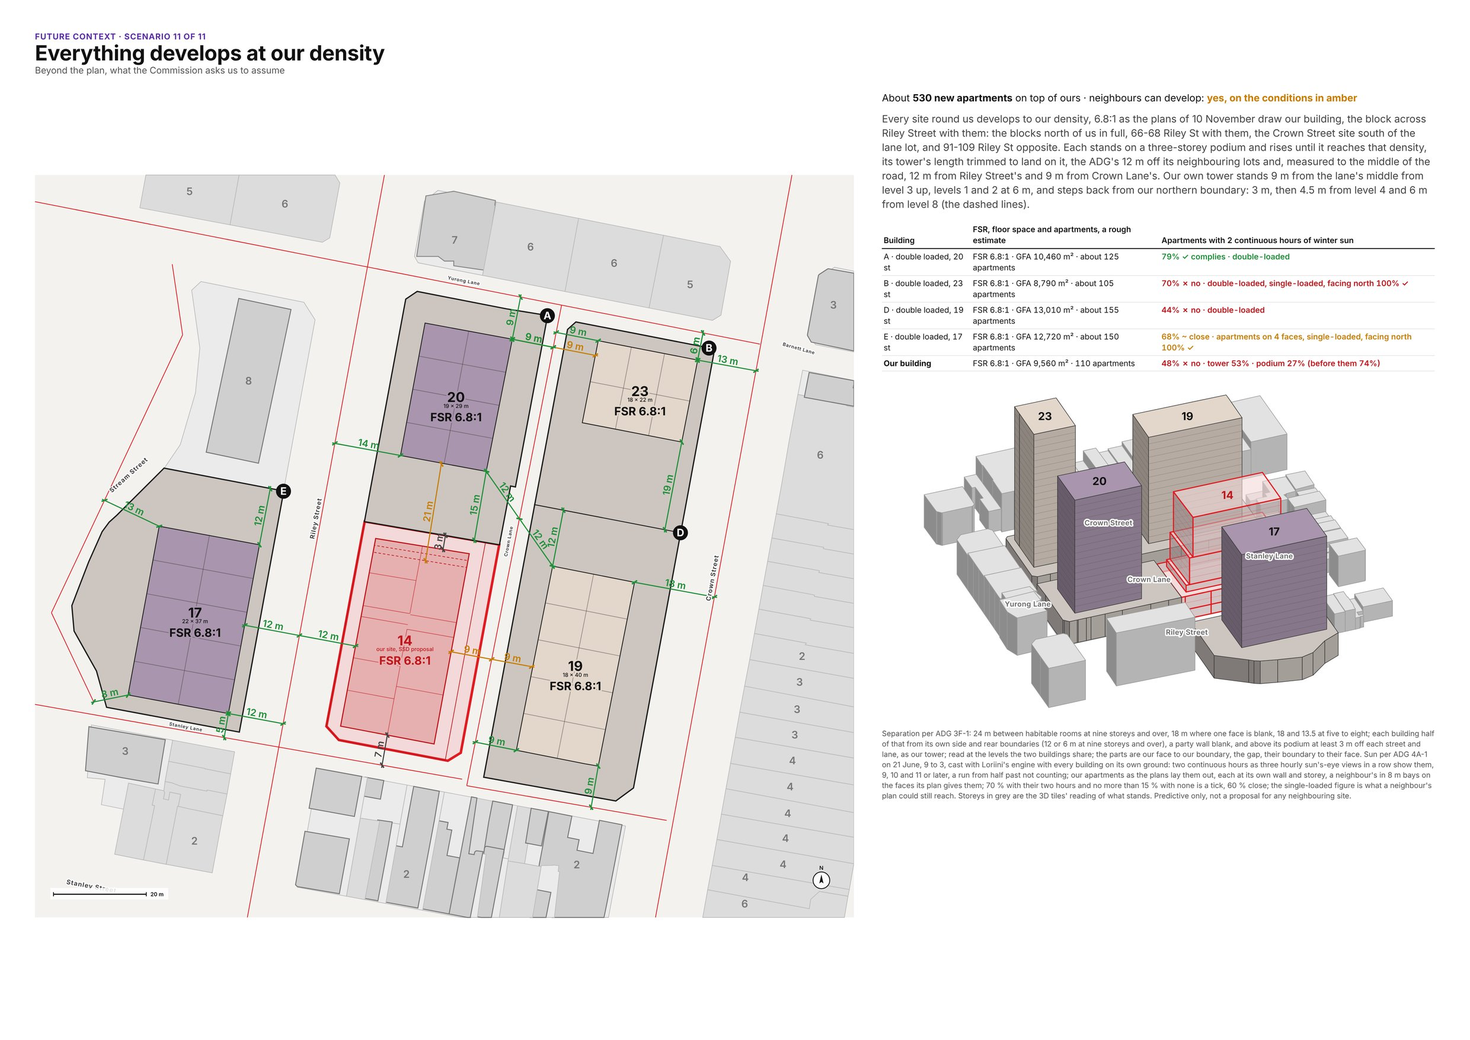
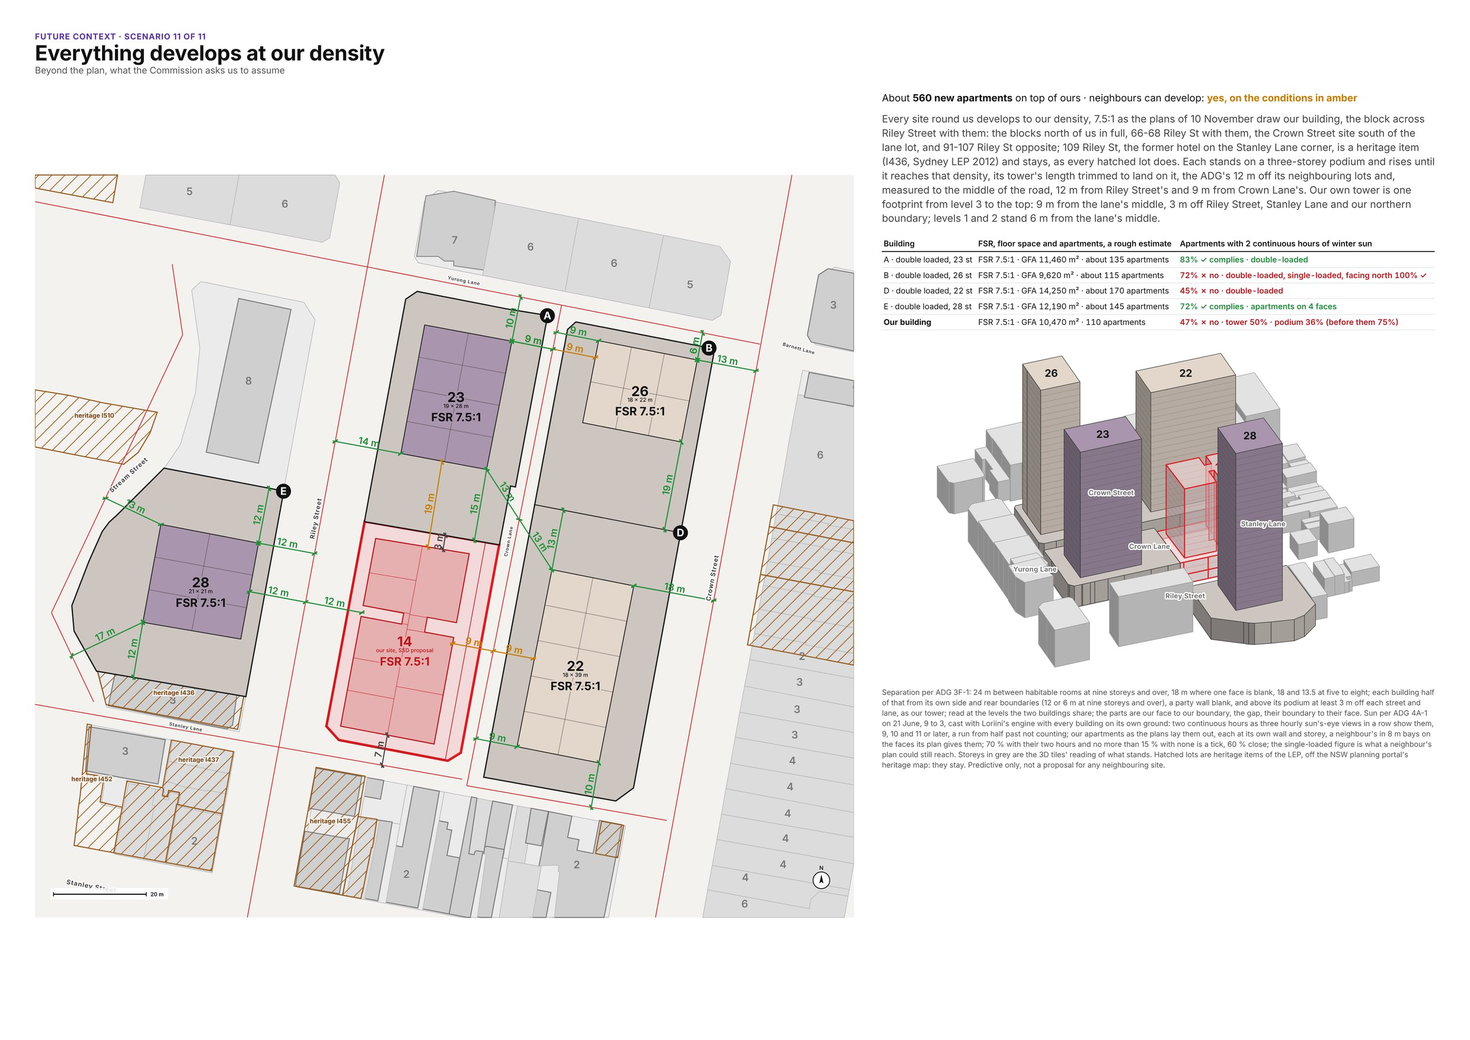
Future context: the tower one footprint with its slots, heritage items off the planning portal, and our FSR calculated off the plans
Our tower is one footprint from level 3 to the top (no steps at the north), with a slot cut into each long face where the corridor ends: a stretch of a face without an apartment that names a depth (`[null, width, depth]`) is cut that deep into the tower. The apartments are laid along the tower's outline before the cut, and the sun study reads a side's apartments off its outer wall alone, measured square to the side's longest stretch, so a wall inside a slot carries none.

The LEP's heritage items are fetched off the planning portal's heritage map with their numbers (`--heritage` over an earlier fetch; the shared fetch now asks for `H_ID`), hatched on the option sheets, and checked against every development site: a scenario that builds on one is warned on its sheet and on the console. 109 Riley Street is item I436, the former hotel 'Watters Gallery', so the site across Riley Street is 91-107 Riley Street without it.

`site.fsr` states our density where it is calculated off the plans, with the sum beside it: 7.5:1 for Riley Street (tower 11 floors of about 720 m², levels 1 and 2 about 860 m² each, the ground floor taken at 60 % of the lot). The neighbours' parity reads it, so every site in the last scenario stands at 7.5:1.

Claude-Session: https://claude.ai/code/session_01VNRPaoqvXaWWnp37ybZcdp

diff --git a/scripts/future_context.ts b/scripts/future_context.ts
@@ -11,6 +11,7 @@
 //   npm run future -- out/capacity/riley --scenarios examples/capacity_study/70-76-riley-street-darlinghurst.future.json
 //   npm run future -- out/capacity/riley --scenarios … --redraw      (draw again from what was fetched)
 //   npm run future -- out/capacity/riley --scenarios … --redraw --only last   (one scenario's sheets alone: its number, or `last`)
+//   npm run future -- out/capacity/riley --scenarios … --redraw --heritage    (read the LEP's heritage items over an earlier fetch)
 //   npm run future -- out/capacity/riley --scenarios … --redraw --sun-context   (read the 300 m the sun reaches)
 //
 // Over the context plan's reading (analysis.json: every property's polygon,
@@ -32,7 +33,7 @@ import { promisify } from 'node:util';
 import { PDFDocument } from 'pdf-lib';
 import { fetchAerial } from '../src/fetch/imagery.js';
 import { fetchBuildings } from '../src/fetch/buildings.js';
-import { fetchFloorSpaceRatio, fetchHeightOfBuilding } from '../src/fetch/nsw.js';
+import { fetchFloorSpaceRatio, fetchHeightOfBuilding, fetchHeritage } from '../src/fetch/nsw.js';
 import { meshSurfaceOver } from '../src/fetch/meshHeights.js';
 import { cellsIn, footprintHeight, simplifyRing, toLonLat, toXY, traceOutlines, type XY } from '../src/lib/meshHeights.js';
 import { mercatorToLonLat, type Extent } from '../src/lib/geo.js';
@@ -63,6 +64,29 @@ const TIER_M = 3;
 
 if (!redraw) await fetchStudy();
 if (!redraw || args.includes('--sun-context')) await fetchSunContext();
+if (!redraw || args.includes('--sun-context') || args.includes('--heritage')) await fetchHeritageItems();
+
+/** The heritage items of the LEP round the site, off the planning portal's heritage map: each with its number, name
+ *  and significance and its mapped outline, so a sheet shows what cannot be redeveloped and a scenario that builds on
+ *  one is caught. `--heritage` reads them over an earlier fetch. */
+async function fetchHeritageItems(): Promise<void> {
+  const a = JSON.parse(await readFile(join(out, 'analysis.json'), 'utf8'));
+  const f = JSON.parse(await readFile(join(out, 'future.json'), 'utf8'));
+  const k: number = a.k;
+  const site: any = Object.values(a.props).find((p: any) => p.isSite);
+  const [cx, cy] = site.centroid;
+  const win: Extent = { xmin: cx - SUN_REACH_M * k, xmax: cx + SUN_REACH_M * k, ymin: cy - SUN_REACH_M * k, ymax: cy + SUN_REACH_M * k };
+  try {
+    const fc: any = await fetchHeritage(win);
+    const ringsOf = (g: any): number[][][] => (!g ? [] : g.type === 'Polygon' ? g.coordinates : g.type === 'MultiPolygon' ? g.coordinates.flat() : []);
+    f.heritage = (fc.features ?? []).filter((h: any) => String(h.properties?.LAY_CLASS ?? '').startsWith('Item'))
+      .map((h: any) => ({ id: h.properties?.H_ID ?? null, name: h.properties?.H_NAME ?? null, significance: h.properties?.SIG ?? null, rings: ringsOf(h.geometry) }))
+      .filter((h: any) => h.rings.length);
+    f.heritageFetchedAt = new Date().toISOString();
+    await writeFile(join(out, 'future.json'), JSON.stringify(f));
+    log(`  heritage: ${f.heritage.length} items of the LEP within ${SUN_REACH_M} m`);
+  } catch (e: any) { log(`  WARN the heritage items: ${e?.message ?? e}`); }
+}
 
 
 async function fetchSunContext(): Promise<void> {

diff --git a/src/fetch/nsw.ts b/src/fetch/nsw.ts
@@ -143,7 +143,7 @@ export const fetchFloorSpaceRatio = (extent: Extent) =>
   queryByExtent(`${EPI}/1`, extent, 'FSR');
 
 export const fetchHeritage = (extent: Extent) =>
-  queryByExtent(`${EPI}/0`, extent, 'LAY_CLASS,H_NAME,SIG');
+  queryByExtent(`${EPI}/0`, extent, 'LAY_CLASS,H_ID,H_NAME,SIG');
 
 /**
  * The planning controls that apply AT the site, for the development summary

diff --git a/scripts/capacity_study/future_context.py b/scripts/capacity_study/future_context.py
@@ -325,6 +325,30 @@ def existing_height(r):
 
 
 BUILT = set()
+HERITAGE = None
+HERITAGE_HITS = {}                                                  # scenario title -> [(parcel key, address, item)]
+
+
+def heritage_items():
+    """The LEP's heritage items round the site: [(polygon, number, name)], off the planning portal's heritage map as
+    the runner fetched it (future.json), else as the capacity study kept it (analysis.json, names alone)."""
+    global HERITAGE
+    if HERITAGE is None:
+        HERITAGE = []
+        for h, ll in [(h, True) for h in fu.get('heritage') or []] or [(h, False) for h in a.get('heritageItems') or []]:
+            try:
+                g = poly_of(h['rings'], ll=ll).buffer(0)
+            except Exception:
+                continue
+            if not g.is_empty:
+                HERITAGE.append((g, h.get('id'), h.get('name')))
+    return HERITAGE
+
+
+def heritage_on(poly):
+    """The heritage items a lot stands on: those whose mapped outline covers a third of it or more."""
+    return [(hid, name) for g, hid, name in heritage_items() if g.intersection(poly).area >= 0.34 * poly.area]
+
 
 
 def site_yield():
@@ -333,6 +357,9 @@ def site_yield():
     scenario moves it."""
     gba = tiers_gba(SITE_TIERS)
     units = SITE_UNITS if abs(gba - BASE_GBA) < 1 else round(SITE_UNITS * gba / BASE_GBA / 5) * 5
+    if S.get('fsr'):                                                  # our density as the file states it, calculated off the plans
+        fsr = S['fsr'] * gba / BASE_GBA                               # and scaled where a scenario moves our tower
+        return fsr, fsr * SITE_AREA, units
     return EFFICIENCY * gba / SITE_AREA, EFFICIENCY * gba, units
 
 
@@ -371,7 +398,7 @@ def trim_to(poly, want):
 
 def our_fsr():
     """Our density: the file's `site.fsr` where it states one, else off our massing as the scenario draws it."""
-    return S.get('fsr') or (site_yield()[0] if TOWER else SITE_GFA / SITE_AREA)
+    return site_yield()[0] if TOWER else (S.get('fsr') or SITE_GFA / SITE_AREA)
 
 
 AXES = None
@@ -552,37 +579,27 @@ def unit_spans(lst, face_len):
 
 def our_units_scheme(k):
     """Our tower's typical floor as the plans lay it out: the apartments along its Riley Street and Crown Lane faces,
-    a corridor between them."""
+    a corridor between them; the lines kept within the tower as its slots leave it."""
     plan_ = ((TOWER or {}).get('units') or {}).get('tower')
-    if not plan_:
+    east, west = (face_run(SITE_BOX, 'east'), face_run(SITE_BOX, 'west')) if plan_ and SITE_BOX is not None else (None, None)
+    if not east or not west:
         return []
-    cs = list(SITE_TOWER.exterior.coords)[:-1]
-    if not SITE_TOWER.exterior.is_ccw:
-        cs = cs[::-1]
-    faces = {}
-    for p, q in zip(cs, cs[1:] + cs[:1]):
-        L = math.dist(p, q)
-        if L < 1:
-            continue
-        nx = (q[1] - p[1]) / L
-        side = 'east' if nx > 0.7 else 'west' if nx < -0.7 else None
-        if side and (side not in faces or L > faces[side][0]):
-            faces[side] = (L,) + ((p, q) if p[1] > q[1] else (q, p))
-    if len(faces) < 2:
-        return []
-    (_, en, es), (_, wn, ws) = faces['east'], faces['west']
+    (en, es), (wn, ws) = east, west
     mn, ms = ((en[0] + wn[0]) / 2, (en[1] + wn[1]) / 2), ((es[0] + ws[0]) / 2, (es[1] + ws[1]) / 2)
     lerp = lambda a, b, t: (a[0] + (b[0] - a[0]) * t, a[1] + (b[1] - a[1]) * t)
-    line = lambda a, b: f'<line x1="{f(a[0])}" y1="{f(-a[1])}" x2="{f(b[0])}" y2="{f(-b[1])}" stroke="#c0161c" stroke-opacity=".6" stroke-width="{0.3 * k:.2f}"/>'
-    o = [line(mn, ms)]                                                # the corridor, wall to wall
+    inner = SITE_TOWER.buffer(-0.05)
+
+    def line(a, b):
+        g = LineString([a, b]).intersection(inner)
+        return [f'<line x1="{f(x.coords[0][0])}" y1="{f(-x.coords[0][1])}" x2="{f(x.coords[-1][0])}" y2="{f(-x.coords[-1][1])}" stroke="#c0161c" stroke-opacity=".6" stroke-width="{0.3 * k:.2f}"/>'
+                for x in (g.geoms if hasattr(g, 'geoms') else [g]) if x.geom_type == 'LineString' and x.length > 0.4]
+
+    o = line(mn, ms)                                                  # the corridor, wall to wall
     for side, fn, fs_ in (('east', en, es), ('west', wn, ws)):
         L = math.dist(fn, fs_) or 1.0
         for i, (name, a, b, corner) in enumerate(unit_spans(plan_.get(side, []), L)):
             if i:
-                o.append(line(lerp(fn, fs_, a / L), lerp(mn, ms, a / L)))
-            if name is None:                                          # the corridor's window: open to the face
-                c0, c1 = lerp(mn, ms, a / L), lerp(mn, ms, b / L)
-                o.append(f'<line x1="{f(c0[0])}" y1="{f(-c0[1])}" x2="{f(c1[0])}" y2="{f(-c1[1])}" stroke="#e6b0b0" stroke-width="{0.5 * k:.2f}"/>')
+                o += line(lerp(fn, fs_, a / L), lerp(mn, ms, a / L))
     return o
 
 
@@ -685,6 +702,11 @@ def resolve(scn):
         parcel = parcel_of(p['addresses'])
         for x in p['addresses']:
             used.add(str(prop(x)['propid']))
+            for hid, hname in heritage_on(prop(x)['poly']):           # a heritage item cannot be redeveloped: say so, loudly
+                hit = (p['key'], short(prop(x)['base']), f'{hid or "item"}, {hname}' if hname else str(hid))
+                if hit not in HERITAGE_HITS.setdefault(scn['title'], []):
+                    HERITAGE_HITS[scn['title']].append(hit)
+                    print(f'WARN {scn["title"]}: site {p["key"]} takes {hit[1]}, heritage item {hit[2]}', file=sys.stderr)
         area = parcel.area
         rows = []
         for b in p['buildings']:
@@ -796,8 +818,48 @@ def inset(parcel, setbacks):
     return largest(g)
 
 
-SITE_TOWER, SITE_PODIUM, TOWER_OWN, SITE_TIERS = None, 0, False, []
+SITE_TOWER, SITE_BOX, SITE_PODIUM, TOWER_OWN, SITE_TIERS = None, None, 0, False, []
 BASE_TOWER = inset(SITE_POLY, TOWER['setbacks']) if TOWER else SITE_POLY.buffer(-1.0, join_style=2)
+
+
+def face_run(poly, side):
+    """A footprint's face on one side as (start, end): its longest edge facing that way, from its north end (east and
+    west) or its east end (south and north)."""
+    want = {'east': (1, 0), 'west': (-1, 0), 'south': (0, -1), 'north': (0, 1)}[side]
+    cs = list(poly.exterior.coords)
+    if not poly.exterior.is_ccw:
+        cs = cs[::-1]
+    best = None
+    for p, q in zip(cs[:-1], cs[1:]):
+        L = math.dist(p, q)
+        if L >= 1 and ((q[1] - p[1]) * want[0] - (q[0] - p[0]) * want[1]) / L > 0.7 and (best is None or L > best[0]):
+            best = (L, p, q)
+    if not best:
+        return None
+    k = 1 if want[0] else 0
+    return (best[1], best[2]) if best[1][k] > best[2][k] else (best[2], best[1])
+
+
+def cut_slots(poly, plan_):
+    """A footprint with the slots its plan leaves open: a stretch of a face without an apartment that names a depth
+    (`[null, width, depth]`, the corridor's end open to the air) is cut that deep into the building."""
+    out = poly
+    for side, lst in (plan_ or {}).items():
+        run = face_run(poly, side) if side in ('east', 'west', 'south', 'north') else None
+        if not run:
+            continue
+        (sx, sy), (ex, ey) = run
+        L = math.dist(run[0], run[1])
+        ux, uy = (ex - sx) / L, (ey - sy) / L
+        nx, ny = -uy, ux
+        c = poly.representative_point()
+        if (c.x - sx) * nx + (c.y - sy) * ny < 0:
+            nx, ny = -nx, -ny                                         # inward
+        for name, a, b, depth in unit_spans(lst, L):
+            if name is None and isinstance(depth, (int, float)) and depth > 0:
+                at = lambda t, d: (sx + ux * t + nx * d, sy + uy * t + ny * d)
+                out = out.difference(Polygon([at(a, -0.5), at(b, -0.5), at(b, depth), at(a, depth)]))
+    return largest(out)
 
 
 def tiers_for(tw):
@@ -825,7 +887,8 @@ def tiers_for(tw):
             if st['from'] <= a:
                 for name, v in st['setbacks'].items():
                     sb[name] = max(sb.get(name, 0), v)                # a step only ever pushes further back
-        tiers.append(dict(poly=inset(SITE_POLY, sb), s0=a, s1=cuts[i + 1] - 1 if i + 1 < len(cuts) else N, homes='tower', floor0=a - (P + 1)))
+        tiers.append(dict(poly=cut_slots(inset(SITE_POLY, sb), (tw.get('units') or {}).get('tower')), s0=a, s1=cuts[i + 1] - 1 if i + 1 < len(cuts) else N,
+                          homes='tower', floor0=a - (P + 1)))
     return tiers
 
 
@@ -844,7 +907,7 @@ def ours_for(band):
 
 def set_tower(scn=None):
     """Our tower for a scenario: the study's site.tower, with whatever the scenario's own `site.tower` replaces."""
-    global TOWER, SITE_TOWER, SITE_PODIUM, TOWER_OWN, SITE_TIERS
+    global TOWER, SITE_TOWER, SITE_BOX, SITE_PODIUM, TOWER_OWN, SITE_TIERS
     base = S.get('tower') or {}
     own = ((scn or {}).get('site') or {}).get('tower') or {}
     TOWER = {**base, **own} if base or own else None
@@ -860,6 +923,10 @@ def set_tower(scn=None):
     SITE_TOWER = inset(SITE_POLY, TOWER['setbacks']) if TOWER else SITE_POLY.buffer(-1.0, join_style=2)
     SITE_PODIUM = TOWER.get('podium', 0) if TOWER else 0
     SITE_TIERS = tiers_for(TOWER)
+    SITE_BOX = SITE_TOWER                                             # the tower's outline before its slots are cut: what its apartments are laid along
+    towers = [t for t in SITE_TIERS if t['homes'] == 'tower']
+    if towers:
+        SITE_TOWER = towers[0]['poly']                                # the tower as it stands at its lowest level, slots and all
 
 
 set_tower()
@@ -1581,7 +1648,7 @@ mesh_props = [r for b in BLOCKS for r in b if measured(r)]
 
 def flags_for():
     flags = []
-    flags.append(f'<b>Our site.</b> {S["storeys"]} storeys as the author states it, not read from the model; {SITE_UNITS} apartments; its density is read off the massing as this sheet draws it, {EFFICIENCY:.0%} of the envelope, {our_fsr():.1f}:1 over {SITE_AREA:,.0f} m². The model\'s own GFA and unit count should replace them.'
+    flags.append(f'<b>Our site.</b> {S["storeys"]} storeys as the author states it, not read from the model; {SITE_UNITS} apartments; its density is ' + (f'the file\'s, calculated off the plans, {our_fsr():.1f}:1' if S.get('fsr') else f'read off the massing as this sheet draws it, {EFFICIENCY:.0%} of the envelope, {our_fsr():.1f}:1') + f' over {SITE_AREA:,.0f} m². The model\'s own GFA schedule should replace it.'
                  + (f' The tower is drawn on a {SITE_PODIUM}-storey podium, {SITE_TOWER.area:,.0f} m² a floor at its lowest level, its faces ' + ', '.join(f'{site_setback(n):.0f} m off {n.title()}' for n in TOWER['setbacks']) + ': ' + ('setbacks the scenario sets.' if TOWER_OWN else 'setbacks read off the model\'s plan, to be confirmed in it.') if TOWER else '')
                  + (f' The envelope drawn holds {site_yield()[1]:,.0f} m² GFA at {EFFICIENCY:.0%}; the plans lay out {SITE_UNITS} apartments.' if TOWER else ''))
     if MESH.get('meshes'):
@@ -1801,6 +1868,17 @@ def mini_plan(parcels, blds, existing, RET, sep, k=1.0, big=False, bset=None):
         if g.area >= 100:
             c = g.representative_point()
             o.append(f'<text x="{f(c.x)}" y="{-c.y + 1.7 * k:.2f}" font-size="{5 * k:.2f}" font-weight="600" text-anchor="middle" fill="{ink}">{n}</text>')
+    if big:                                                           # the LEP's heritage items: hatched, they stay
+        o.append('<defs><pattern id="hh" patternUnits="userSpaceOnUse" width="2" height="2" patternTransform="rotate(45)"><line x1="0" y1="0" x2="0" y2="2" stroke="#9a5b1e" stroke-width="0.32"/></pattern></defs>')
+        dev = unary_union([q['poly'] for q in parcels] + [SITE_POLY])
+        for g, hid, hname in heritage_items():
+            if not g.intersects(box):
+                continue
+            g = g.intersection(box)
+            o.append(f'<path d="{path(g)}" fill="url(#hh)" stroke="#9a5b1e" stroke-width="{0.5 * k:.2f}"/>')
+            if g.distance(dev) < 14 and g.area >= 80:                 # named where it stands beside a site
+                c = g.representative_point()
+                o.append(f'<text x="{f(c.x)}" y="{-c.y - 2.2 * k:.2f}" font-size="{3.0 * k:.2f}" font-weight="700" text-anchor="middle" fill="#7a4310" paint-order="stroke" stroke="#f4f2ef" stroke-width="{1.2 * k:.2f}">heritage{" " + H.escape(str(hid)) if hid else ""}</text>')
     o.append(f'<path d="{path(SITE_POLY)}" fill="{C["site"]}" stroke="#e11b22" stroke-width="{1.2 * k:.2f}"/>')
     if TOWER:
         o.append(f'<path d="{path(SITE_TOWER)}" fill="#e6b0b0" stroke="#c0161c" stroke-width="{0.5 * k:.2f}"/>')
@@ -1892,7 +1970,8 @@ OPTION_NOTE = ("Separation per ADG 3F-1: 24 m between habitable rooms at nine st
                "on 21 June, 9 to 3, cast with Loriini's engine with every building on its own ground: two continuous hours as three hourly sun's-eye views in a row show them, 9, 10 and 11 or later, a run from half past not counting; "
                "our apartments as the plans lay them out, each at its own wall and storey, a neighbour's in 8 m bays on the faces its plan gives them; 70 % with "
                "their two hours and no more than 15 % with none is a tick, 60 % close; the single-loaded figure is what a neighbour's plan could still reach. "
-               "Storeys in grey are the 3D tiles' reading of what stands. Predictive only, not a proposal for any neighbouring site.")
+               "Storeys in grey are the 3D tiles' reading of what stands. Hatched lots are heritage items of the LEP, off the NSW planning portal's heritage map: they stay. "
+               "Predictive only, not a proposal for any neighbouring site.")
 
 
 def option_page(r):
@@ -1920,7 +1999,8 @@ def option_page(r):
            f'.oaxo{{width:{mm(158)};height:{mm(95)};margin-top:{mm(4)}}} .oaxo svg{{position:static;width:100%;height:100%}}')
     head = (f'<div class="oh"><div class="kick">Future context · Scenario {r["no"]} of {LAST}</div><h1>{H.escape(r["title"])}</h1>'
             f'<div class="hor">{H.escape(r["horizon"])}</div></div>')
-    col = (f'<div class="ocol"><div class="u">{gain}neighbours can develop: <b style="color:{r["allow_colour"]}">{r["allow"]}</b></div>'
+    warn = ''.join(f'<div class="u" style="color:#c0161c"><b>Site {H.escape(k_)} takes {H.escape(addr)}, heritage item {H.escape(item)}: it cannot be redeveloped.</b></div>' for k_, addr, item in r.get('heritage', []))
+    col = (f'<div class="ocol"><div class="u">{gain}neighbours can develop: <b style="color:{r["allow_colour"]}">{r["allow"]}</b></div>{warn}'
            f'<p class="lead">{r["lead"]}</p>'
            f'<table><tr><th>Building</th><th>FSR, floor space and apartments, a rough estimate</th><th>Apartments with 2 continuous hours of winter sun</th></tr>{trs}</table>'
            f'<div class="oaxo">{r["axo"]}</div>'
@@ -2283,7 +2363,7 @@ def page(no, scn):
             a_, gap_, c_ = g['parts']
             b['parts'] = '+'.join(f'{x:.0f}' for x in ((a_, gap_, c_) if gap_ >= 0.3 else (a_, c_)))
     oy = site_yield()
-    SUMMARY.append(dict(ours_yield=yield_text(oy[0], oy[1], oy[2], about=oy[2] != SITE_UNITS), no=no, title=scn['title'], horizon=scn.get('horizon', ''), lead=fill_in(scn['lead'], parcels, units), units=units, buildings=buildings, ours=ours,
+    SUMMARY.append(dict(heritage=HERITAGE_HITS.get(scn['title'], []), ours_yield=yield_text(oy[0], oy[1], oy[2], about=oy[2] != SITE_UNITS), no=no, title=scn['title'], horizon=scn.get('horizon', ''), lead=fill_in(scn['lead'], parcels, units), units=units, buildings=buildings, ours=ours,
                         allow=allow, allow_colour=list(VERDICT_COLOUR.values())[worst], failing=sun_failing, shaded=sun_shaded,
                         mini=mini_plan(parcels, blds, existing, RET, sep), big=mini_plan(parcels, blds, existing, RET, sep, k=0.45, big=True, bset=bset),
                         axo=axo(scn, parcels, blds, existing, RET), sun=sun, scn=scn))

diff --git a/scripts/capacity_study/future_solar.py b/scripts/capacity_study/future_solar.py
@@ -195,7 +195,16 @@ def unit_test(pairs, units, lit_by_panel=None, floor0=0):
             continue
         u, v = p.cell_uv[:, 0], p.cell_uv[:, 1]
         xy = np.asarray(p.origin)[:2] + np.outer(u, np.asarray(p.axis_u)[:2])
-        faces.setdefault(d, []).append(dict(xy=xy, v=v, mins=mins, lit=lit_by_panel.get(id(p)) if lit_by_panel else None))
+        faces.setdefault(d, []).append(dict(xy=xy, v=v, mins=mins, lit=lit_by_panel.get(id(p)) if lit_by_panel else None,
+                                            n=n[:2], long=float(u.max())))
+    # a side's apartments look out of its outer wall: a wall set back inside a slot the plan cuts (the corridor's end,
+    # open to the air) faces the same way and carries none. Outer is measured square to the side's longest stretch,
+    # since a lot's side is several cadastral edges that do not face quite the same way
+    for d, fs in list(faces.items()):
+        ref = max(fs, key=lambda f: f['long'])['n']
+        for f in fs:
+            f['out'] = float(f['xy'].mean(axis=0) @ ref)
+        faces[d] = [f for f in fs if f['out'] >= max(g['out'] for g in fs) - 1.5]
     if not faces:
         return None
     # the coordinate along each side of the building, from its north end (east and west) or its east end (north and

diff --git a/README.md b/README.md
@@ -1990,9 +1990,13 @@ street, and each entry of `steps` pushes the tower further back from a
 storey up (`{"from": 9, "setbacks": {"66-68 RILEY STREET": 6}}`, storeys
 counted from the ground floor as 1; `levelZero` names them as the plans do,
 GF then L1). Riley Street's is the plans as marked up on 10 November 2026:
-the ground floor over the lot, levels 1 and 2 held 3 m off Crown Lane, the
-tower from level 3 up 6 m off it and 3 m off the northern boundary,
-stepping to 4.5 m and 6 m. The massing, the sun study and the floor space
+the ground floor over the lot, levels 1 and 2 held 3 m off Crown Lane, and
+the tower one footprint from level 3 to the top, 6 m off the lane and 3 m
+off the northern boundary, a slot cut into each long face where the
+corridor ends (`[null, width, depth]` among a face's apartments). `site.fsr`
+states the site's density where it is calculated off the plans (7.5:1, the
+sum set out beside it in the file) rather than taken as 75 % of the
+envelope; the neighbours' parity reads it. The massing, the sun study and the floor space
 read every tier; the separation is read band by band, each from the tier
 that stands at that band's levels, and the row is the band that reads
 worst. From the setbacks the sheet reads the
@@ -2041,6 +2045,11 @@ it, or `site.fsr` where the file states one), the podium's floor space
 counted and a single tower's length trimmed about its middle so the floor
 space lands on that density. Riley Street's last scenario sets every site
 round the site, the block across Riley Street with them, at our density.
+The LEP's heritage items come off the planning portal's heritage map with
+their numbers (`--heritage` reads them over an earlier fetch): the option
+sheets hatch them, name the ones beside a site, and a scenario that puts a
+development site on one is warned on its sheet and on the console, as
+Riley Street's was for 109 Riley Street, item I436.
 The option sheets' plans dimension architecturally (a thin line, oblique
 ticks, the figure along the line), write each building's FSR inside it,
 and draw a typical floor in every tower: ours as the plans divide it
